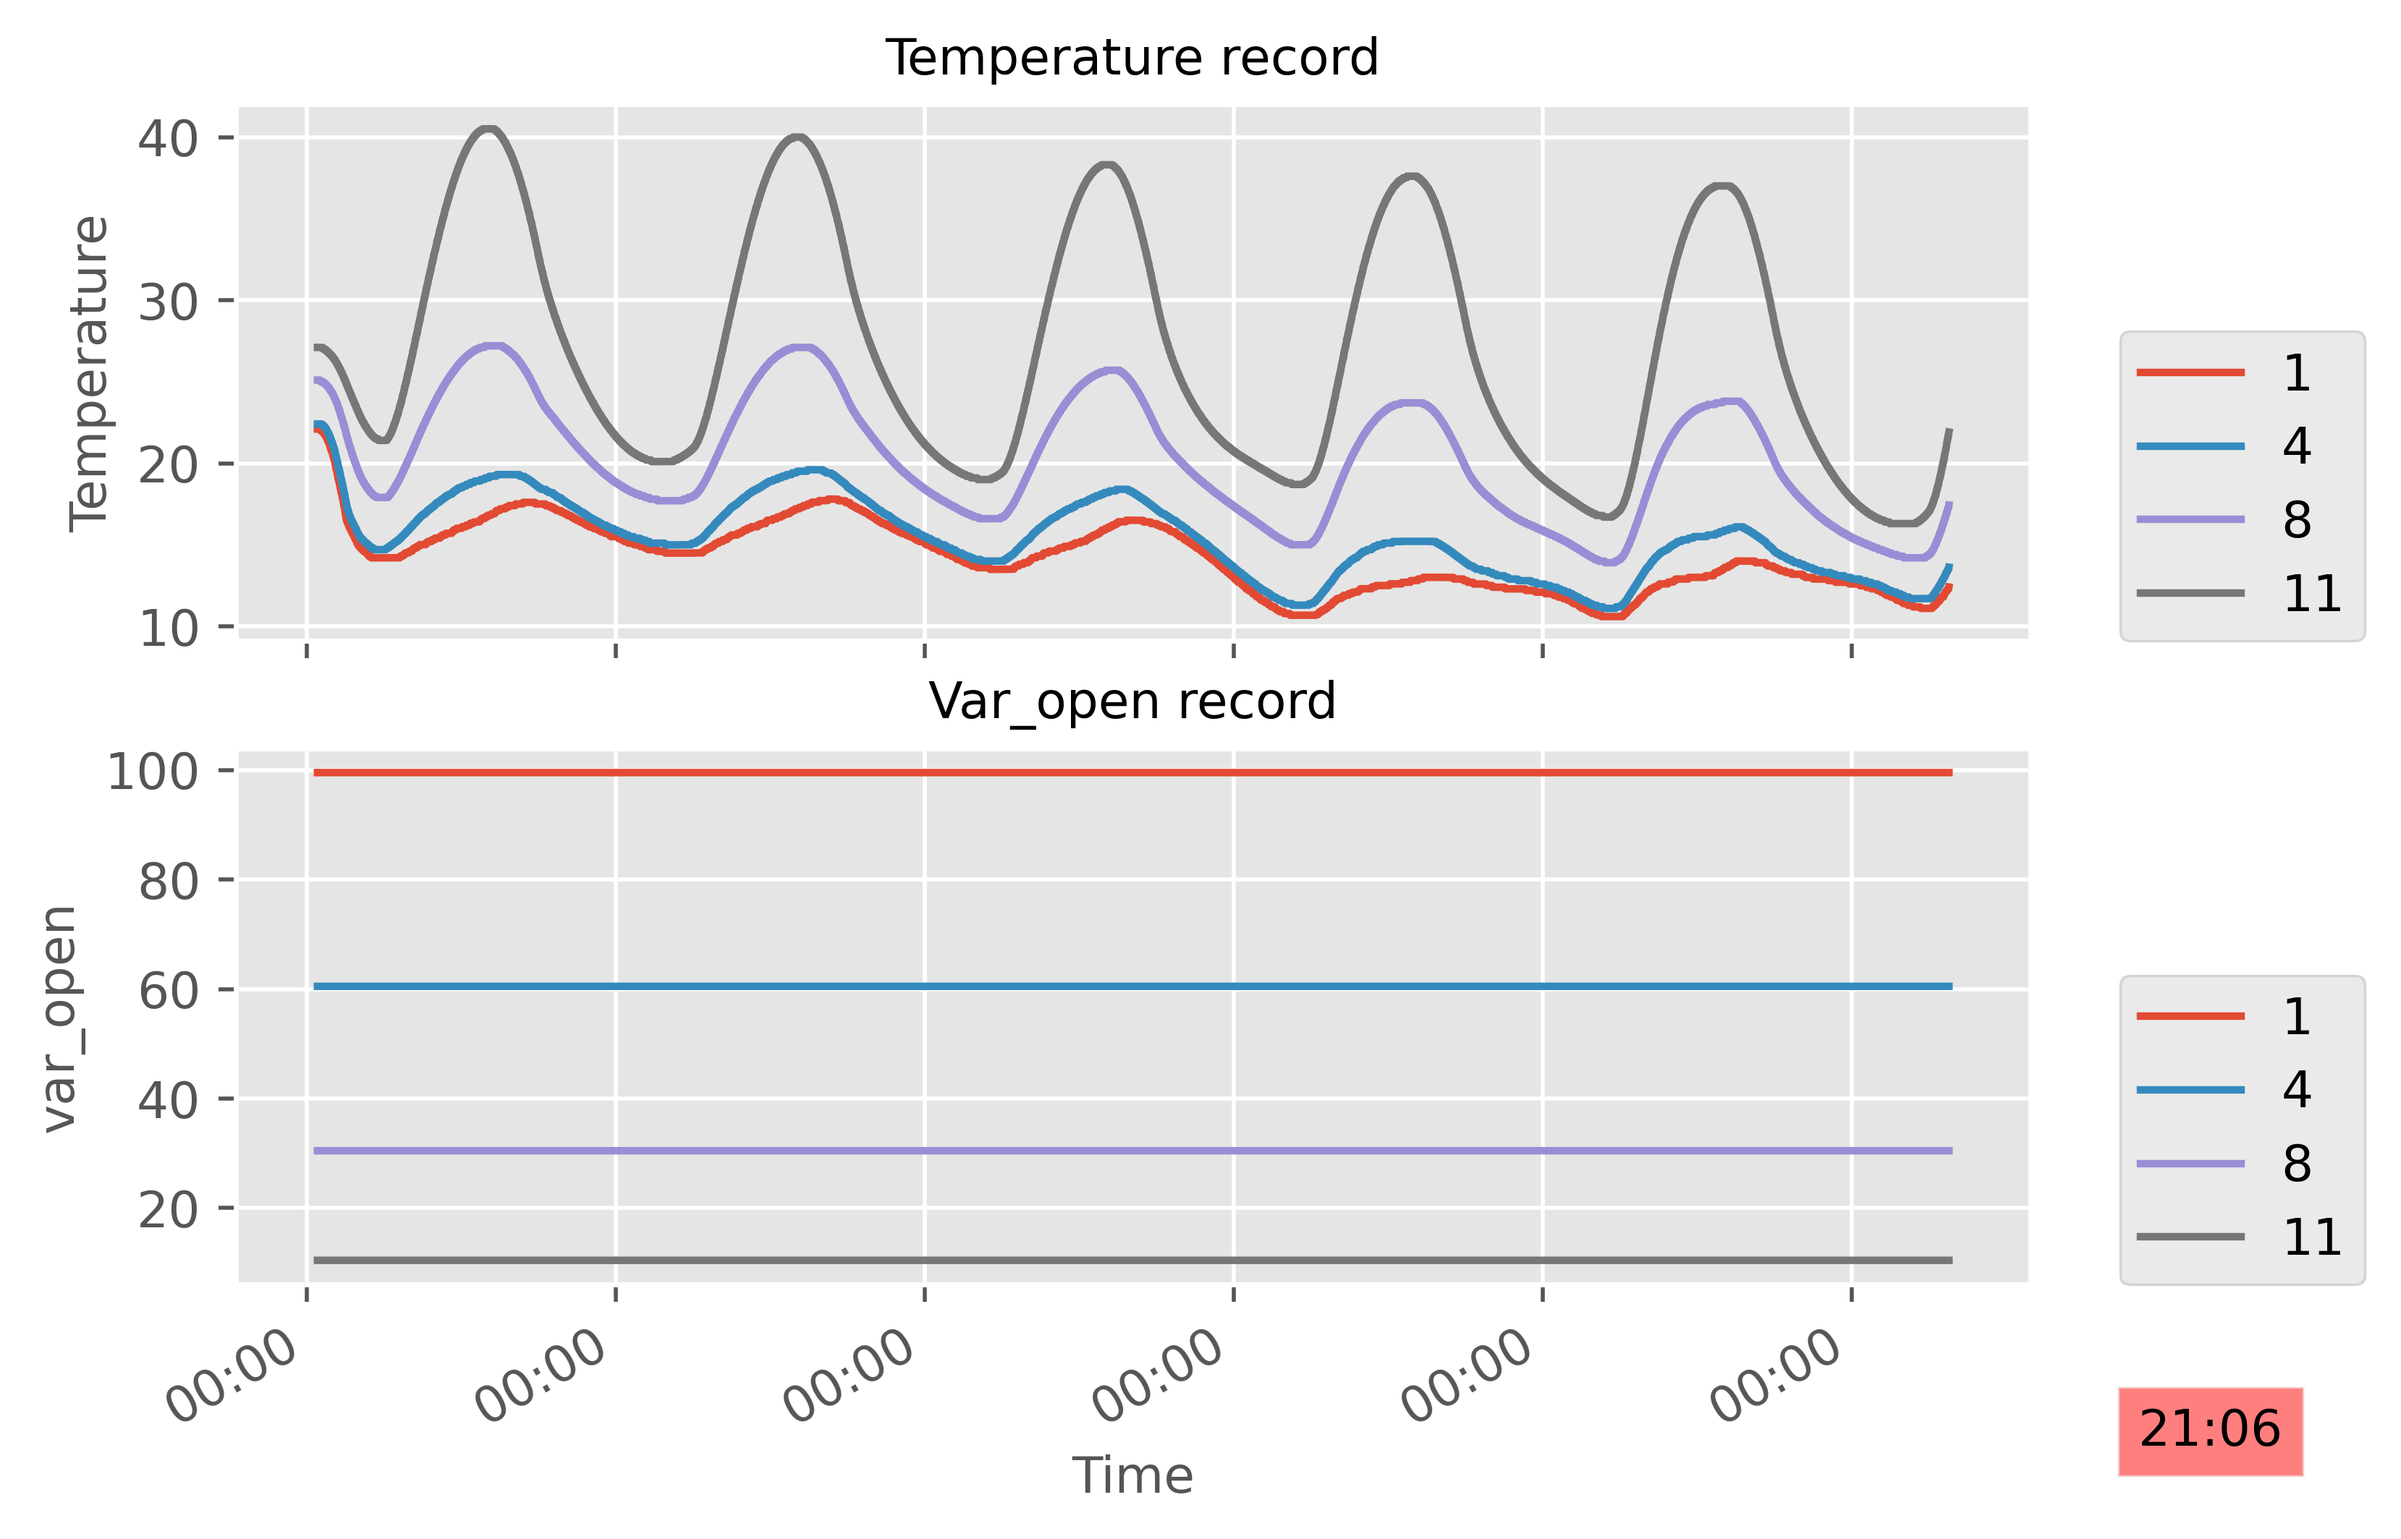
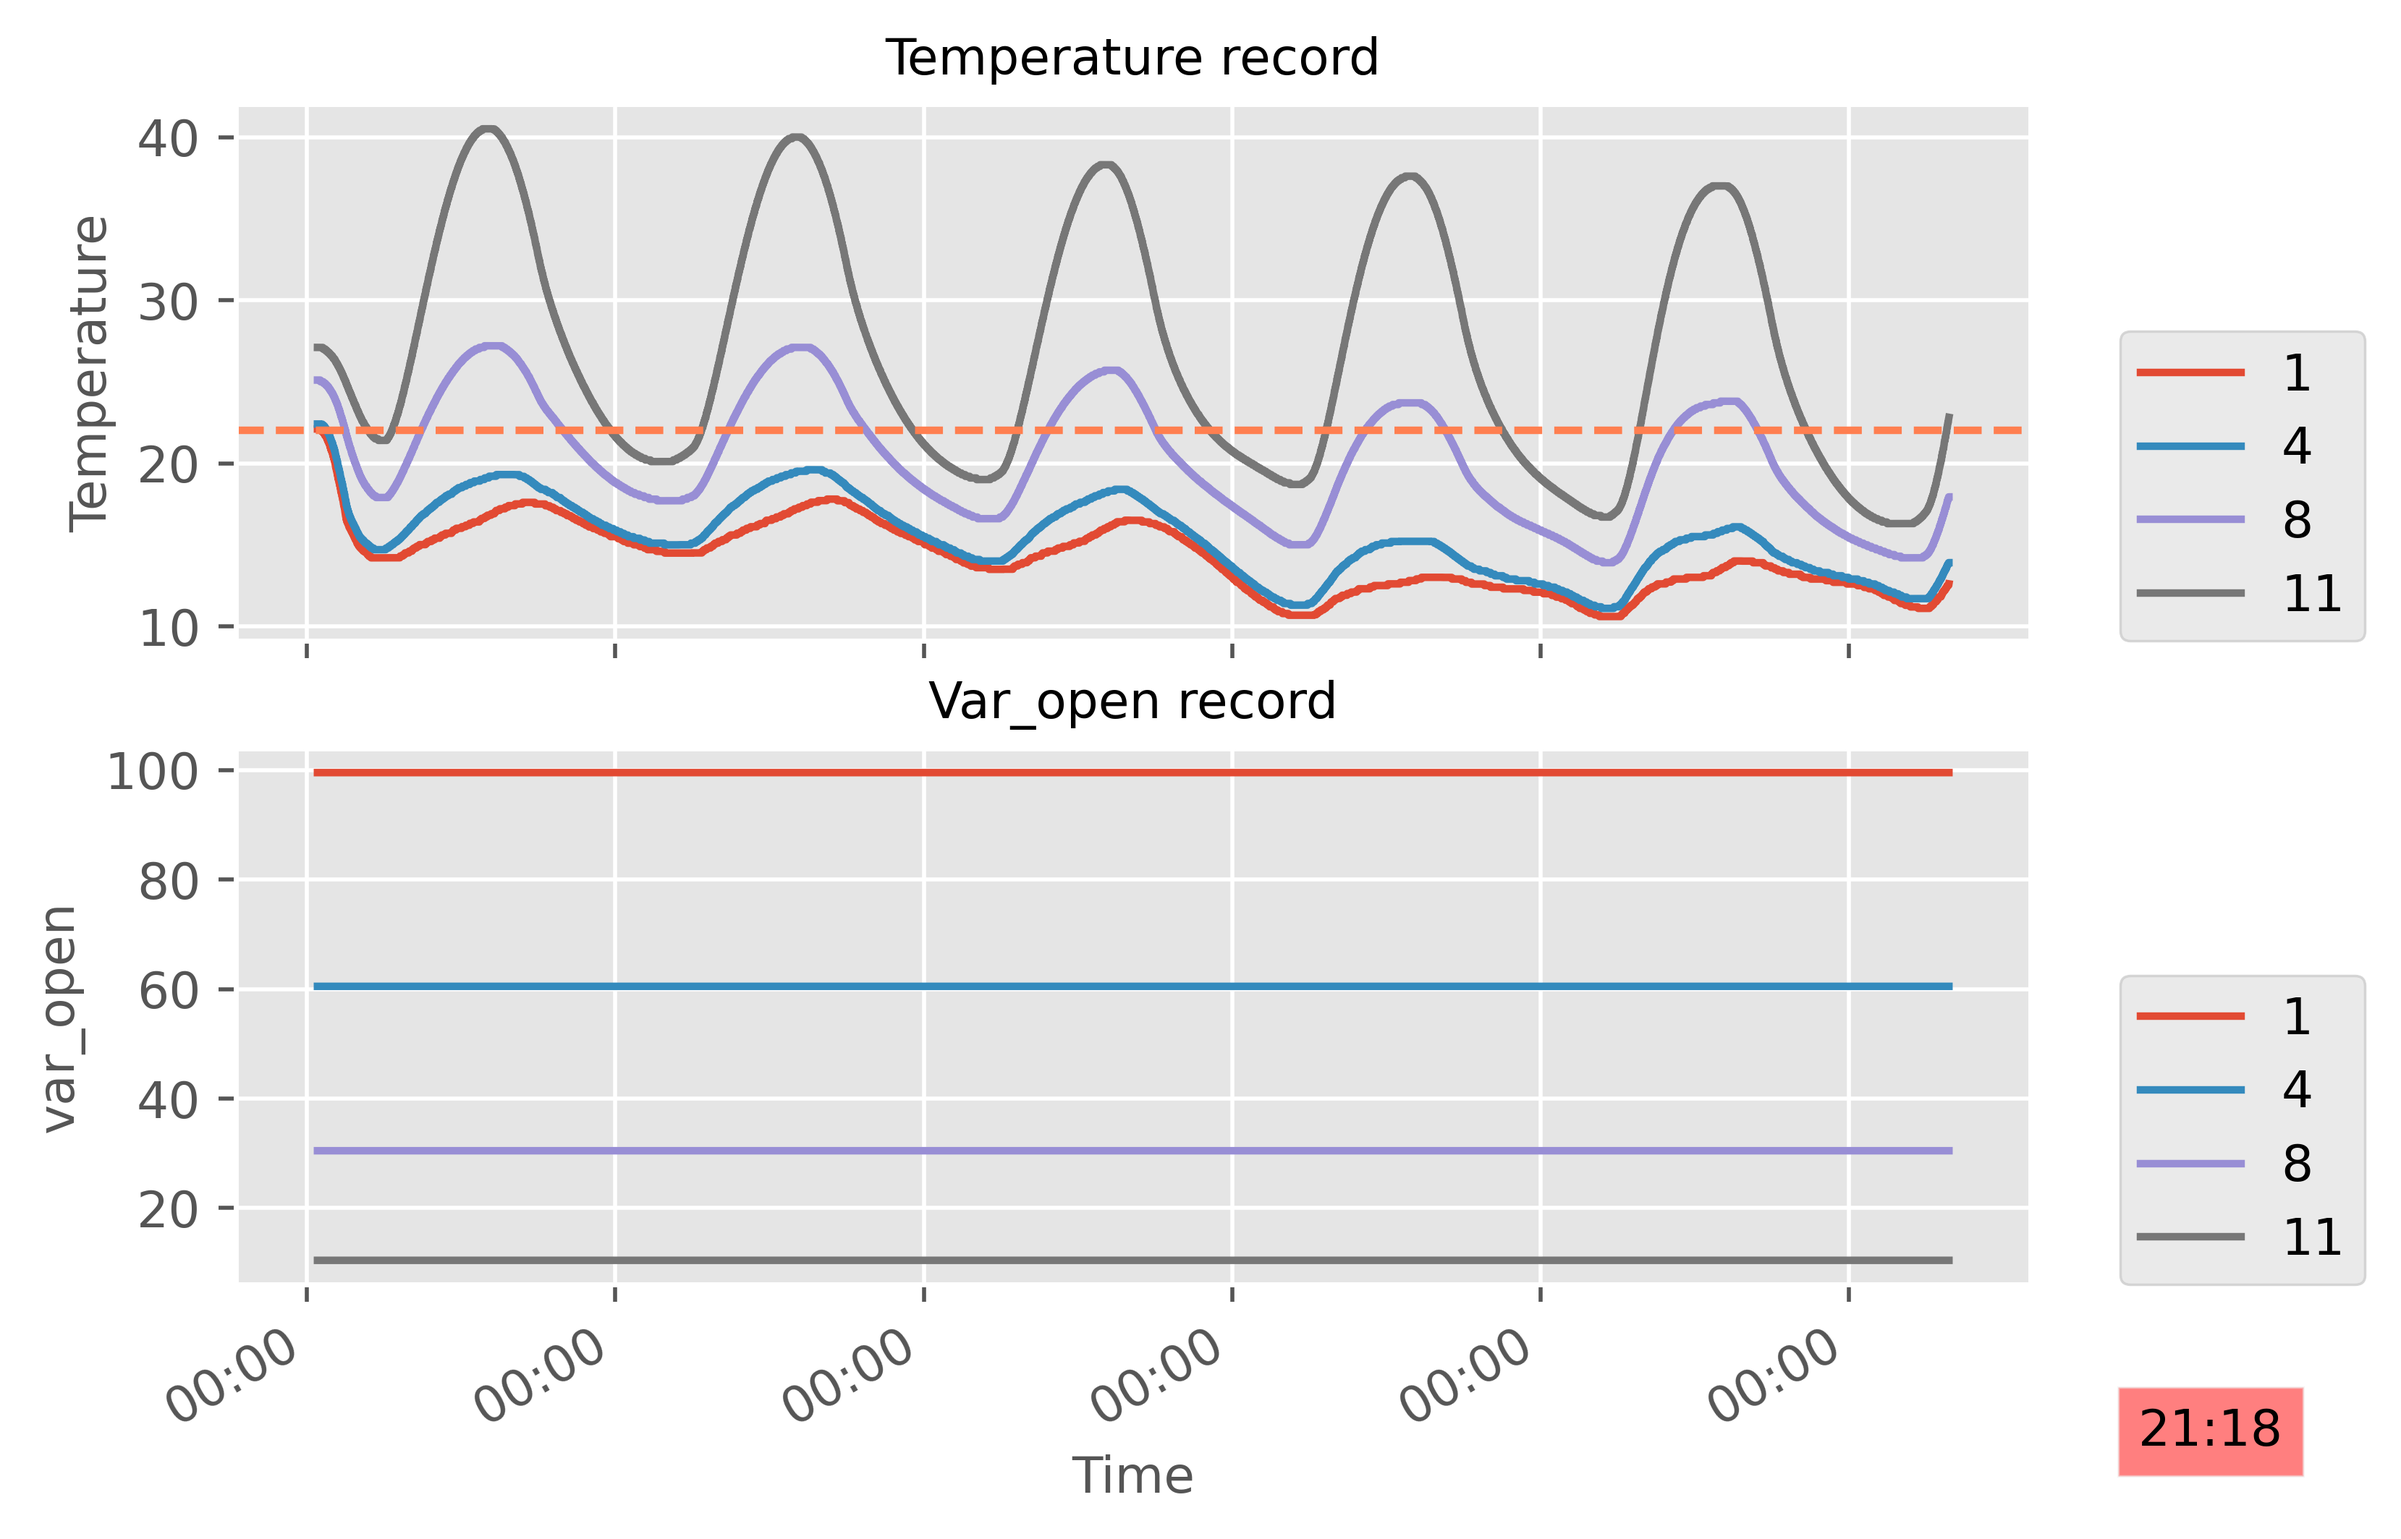
add set_temp line in the figure

diff --git a/auto-plot.py b/auto-plot.py
@@ -40,6 +40,8 @@ def myplot(txtName, indexList):
     for i, df in enumerate(all_df):
         index = indexList[i]
         plt.plot_date(df['time'], df['real_tmp'],linestyle="-",marker="None",label=str(index))
+    df = all_df[0]
+    plt.axhline(y=df.loc[0,'set_tmp'],ls="--",c="coral")#添加水平直线
     # 坐标轴，标题设置
     plt.legend(bbox_to_anchor=(1.05, 0), loc=3, borderaxespad=0)
     plt.xticks([])
